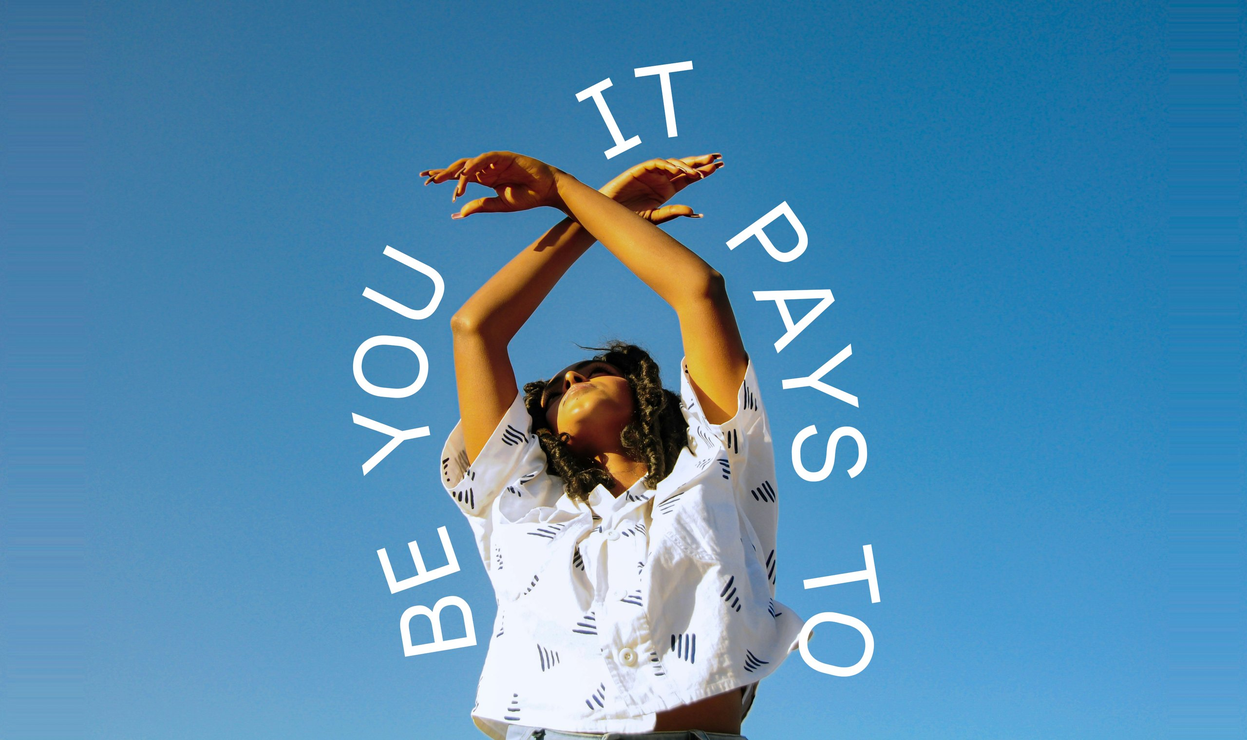
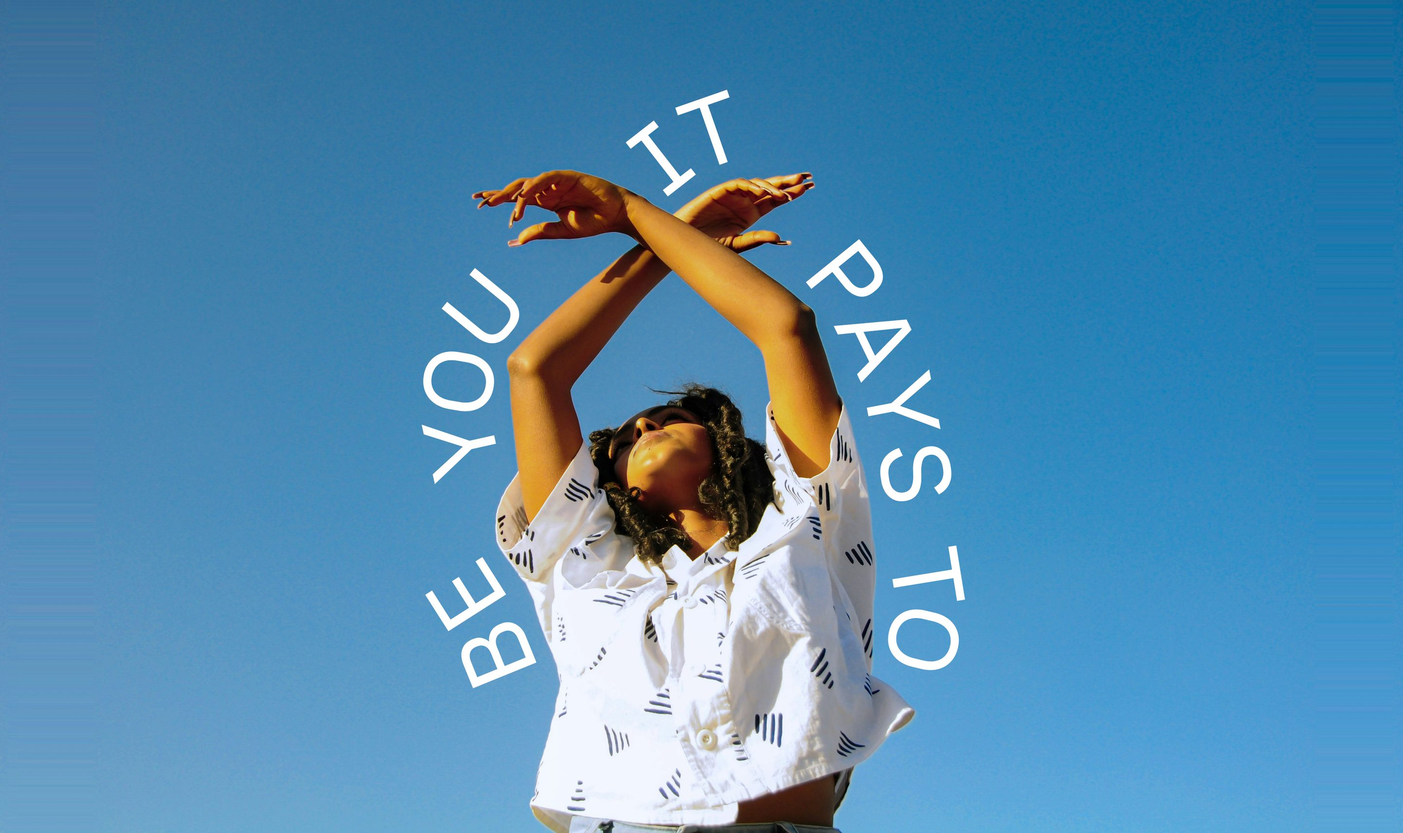
Creator Portfolio: Impact graph, MVP journey, new hero
- Impact: adoption-curve graph (Figma 1830:71821) beside the launch video,
  the curve draws in when the section bottom scrolls into view; video now
  has native controls (muted by default, viewers can unmute).
- Solution -> "MVP experience": end-to-end user journey mapping the eight
  MVP screens across Discover / Create / Share over a timeline; drop the
  old journey placeholder. Screens resized to 520px.
- Update the hero cover to the "It Pays to Be You" shot (compressed JPG).
- Section labels revert to the shared #7c3aed / #a78bfa accent.

diff --git a/case-study-creator-portfolio.html b/case-study-creator-portfolio.html
@@ -24,7 +24,7 @@
 
   <!-- Stylesheet -->
   <link rel="stylesheet" href="css/style.css">
-  <link rel="stylesheet" href="css/case-study.css?v=8">
+  <link rel="stylesheet" href="css/case-study.css?v=28">
 </head>
 <body class="case-study-page cs-page--creator-portfolio">
 
@@ -41,7 +41,7 @@
     <section class="cs-hero cs-hero--full-image">
       <div class="cs-hero-bg"></div>
       <div class="cs-hero-cover">
-        <img src="img/creator-portfolio-hero.jpg" alt="Instagram Creator Portfolio — creators showcase their work and brand partnerships" loading="eager">
+        <img src="img/creator-portfolio-hero.jpg?v=2" alt="Instagram Creator Portfolio — creators showcase their work and brand partnerships" loading="eager">
       </div>
       <div class="container cs-hero-content">
         <div class="cs-hero-meta cs-hero-meta--top">
@@ -324,17 +324,31 @@
     <section class="cs-section cs-section--dark cp-blue-bg">
       <div class="container cs-container">
         <div class="cs-section-header">
-          <span class="cs-section-label">Solution</span>
+          <span class="cs-section-label">MVP experience</span>
           <h2 class="cs-section-title">An on-platform media kit, built into Instagram.</h2>
         </div>
         <div class="cs-body">
           <p>A single, shareable profile where creators curate their best posts, performance insights, and past collaborations &mdash; so their work, not their follower count, makes the pitch.</p>
         </div>
-        <div class="cp-figure">
-          <img src="img/Instagram Creator Portfolio/Creator portfolio-user journey.png" alt="Creator Portfolio user journey — from building to sharing a portfolio" loading="lazy">
+        <div class="cp-journey">
+          <div class="cp-journey-shots">
+            <img src="img/Instagram Creator Portfolio/01_MVP.png" alt="Creator profile with the Professional dashboard entry point" loading="lazy">
+            <img src="img/Instagram Creator Portfolio/02_MVP.png" alt="Professional dashboard prompting to set up a creator portfolio" loading="lazy">
+          </div>
+          <div class="cp-journey-shots cp-journey-shots--spread">
+            <img src="img/Instagram Creator Portfolio/03_MVP.png" alt="Creator-led onboarding video" loading="lazy">
+            <img src="img/Instagram Creator Portfolio/04_MVP.png" alt="Auto-populated content added to the portfolio" loading="lazy">
+            <img src="img/Instagram Creator Portfolio/05_MVP.png" alt="Editing the portfolio sections" loading="lazy">
+            <img src="img/Instagram Creator Portfolio/06_MVP.png" alt="A curated portfolio with selected work" loading="lazy">
+          </div>
+          <div class="cp-journey-shots">
+            <img src="img/Instagram Creator Portfolio/07_MVP.png" alt="Completed portfolio, choosing visibility in Creator Marketplace" loading="lazy">
+            <img src="img/Instagram Creator Portfolio/08_MVP.png" alt="Sharing the portfolio with brands" loading="lazy">
+          </div>
+          <div class="cp-journey-marker"><span class="cp-journey-dot"></span><span class="cp-journey-label">Discover</span></div>
+          <div class="cp-journey-marker"><span class="cp-journey-dot"></span><span class="cp-journey-label">Create</span></div>
+          <div class="cp-journey-marker"><span class="cp-journey-dot"></span><span class="cp-journey-label">Share</span></div>
         </div>
-        <p class="cs-image-caption">Creators curate posts, insights, and collaborations into a shareable, on-platform media kit.</p>
-        <p class="cs-confidential-note">Visuals recreated to respect Meta confidentiality.</p>
       </div>
     </section>
 
@@ -364,11 +378,38 @@
           </div>
         </div>
 
-        <p class="cs-image-caption">Portfolios were shared 22K+ times and drew 53K total views since launch.</p>
-        <div class="cp-phone">
-          <video src="img/Instagram Creator Portfolio/It pays to be you.mp4" autoplay muted loop playsinline aria-label="It Pays to Be You — Creator Portfolio launch campaign"></video>
+        <div class="cp-impact-viz">
+          <div class="cp-impact-graph" aria-hidden="true">
+            <svg class="cp-impact-graph-svg" viewBox="0 0 599 466" preserveAspectRatio="none" fill="none" xmlns="http://www.w3.org/2000/svg">
+              <path d="M40.5 305H591.5" stroke="#000000" stroke-opacity="0.1"/>
+              <path d="M40.5 401H591.5" stroke="#000000" stroke-opacity="0.1"/>
+              <path d="M40.5 449H591.5" stroke="#000000" stroke-opacity="0.1"/>
+              <path d="M40.5 257H591.5" stroke="#000000" stroke-opacity="0.1"/>
+              <path d="M40.5 209H591.5" stroke="#000000" stroke-opacity="0.1"/>
+              <path d="M40.5 161H591.5" stroke="#000000" stroke-opacity="0.1"/>
+              <path d="M40.5 113H591.5" stroke="#000000" stroke-opacity="0.1"/>
+              <path d="M40.5 65H591.5" stroke="#000000" stroke-opacity="0.1"/>
+              <path d="M40.5 17H591.5" stroke="#000000" stroke-opacity="0.1"/>
+              <path d="M40.5 353H591.5" stroke="#ff5858" stroke-linecap="round" stroke-linejoin="round" stroke-dasharray="4 6"/>
+              <g transform="translate(38.5 20.5)">
+                <path class="cp-impact-curve" pathLength="1" d="M2.50034 419.501L28.7259 244.791L54.9515 208.247L80.3575 201.74L106.583 187.222L131.989 177.21L159.854 170.702L184.44 168.199L210.666 164.195L236.891 156.185L262.297 151.68L290.162 149.677L366.38 140.166L391.786 138.664L418.831 105.624L454.072 102.12L495.049 100.618L522.094 75.0877L547.5 2.50068" stroke="url(#cpImpactGrad)" stroke-width="5" stroke-linecap="round" stroke-linejoin="round"/>
+              </g>
+              <text class="cp-graph-label" x="16" y="357" font-size="14">5K</text>
+              <text class="cp-graph-label" x="8" y="21" font-size="14">60K</text>
+              <defs>
+                <linearGradient id="cpImpactGrad" x1="185.26" y1="2.5" x2="185.26" y2="426" gradientUnits="userSpaceOnUse">
+                  <stop stop-color="#ff7a00"/>
+                  <stop offset="0.5" stop-color="#ff0d6d"/>
+                  <stop offset="1" stop-color="#b026ff"/>
+                </linearGradient>
+              </defs>
+            </svg>
+          </div>
+          <div class="cp-impact-video">
+            <video src="img/Instagram Creator Portfolio/It pays to be you.mp4" autoplay muted loop playsinline controls controlslist="nodownload" aria-label="It Pays to Be You — Creator Portfolio launch campaign"></video>
+          </div>
         </div>
-        <p class="cs-image-caption">The launch campaign &mdash; &ldquo;It Pays to Be You.&rdquo;</p>
+        <div class="cp-impact-end" aria-hidden="true"></div>
       </div>
     </section>
 
@@ -537,6 +578,21 @@
           }
         });
       }, { threshold: 0.25 }).observe(flywheel);
+    }
+
+    // Impact adoption graph — draw the curve once the scroll reaches the
+    // bottom of the section (sentinel at the section's end enters the viewport)
+    var impactGraph = document.querySelector('.cp-impact-graph');
+    var impactEnd = document.querySelector('.cp-impact-end');
+    if (impactGraph && impactEnd) {
+      new IntersectionObserver(function(entries, observer) {
+        entries.forEach(function(entry) {
+          if (entry.isIntersecting) {
+            impactGraph.classList.add('is-visible');
+            observer.unobserve(entry.target);
+          }
+        });
+      }, { threshold: 0 }).observe(impactEnd);
     }
 
     // Back to top button

diff --git a/css/case-study.css b/css/case-study.css
@@ -716,15 +716,8 @@
   background: #141414;
 }
 
-/* Blue-themed section labels — deep blue on light sections, light sky-blue on
-   the dark/gradient sections, so they stay legible on both. */
-.cs-page--creator-portfolio .cs-section-label {
-  color: #0c5c8e;
-}
-
-.cs-page--creator-portfolio .cs-section--dark .cs-section-label {
-  color: #8ecae6;
-}
+/* Section labels use the shared accent (#7c3aed on light, #a78bfa on dark) so
+   they stay consistent with the other case studies. */
 
 /* Sticky stack — the Challenge section pins to the top of the viewport while
    the Hypothesis section scrolls up and layers over it like a covering panel. */
@@ -1993,6 +1986,165 @@
   width: 100%;
   display: block;
   border-radius: 24px;
+}
+
+/* MVP experience — end-to-end user journey: overlapping screens grouped into
+   Discover / Create / Share phases over a pink timeline. */
+.cp-journey {
+  --phone-w: clamp(78px, 9vw, 124px);
+  position: relative;
+  display: grid;
+  grid-template-columns: repeat(3, auto);
+  justify-content: center;
+  align-items: end;
+  column-gap: clamp(1.5rem, 4vw, 3.5rem);
+  margin: var(--space-2xl) auto 0;
+}
+
+/* the journey timeline, aligned to the phase dots */
+.cp-journey::before {
+  content: "";
+  position: absolute;
+  left: 5%;
+  right: 5%;
+  top: calc(var(--phone-w) * 2.165 + var(--space-lg) + 5px);
+  height: 2px;
+  background: linear-gradient(90deg, rgba(255, 13, 109, 0.12), rgba(255, 13, 109, 0.6) 50%, rgba(255, 13, 109, 0.12));
+}
+
+.cp-journey-shots {
+  grid-row: 1;
+  display: flex;
+  align-items: flex-end;
+  justify-content: center;
+}
+
+.cp-journey-shots img {
+  width: var(--phone-w);
+  border-radius: 11px;
+  box-shadow: 0 16px 34px rgba(0, 0, 0, 0.55);
+  display: block;
+}
+
+.cp-journey-shots img + img {
+  margin-left: -13%;
+}
+
+/* Create phase has 4 screens — overlap them less so each stays readable */
+.cp-journey-shots--spread img + img {
+  margin-left: -5%;
+}
+
+.cp-journey-marker {
+  grid-row: 2;
+  position: relative;
+  z-index: 1;
+  display: flex;
+  flex-direction: column;
+  align-items: center;
+  padding-top: var(--space-lg);
+}
+
+.cp-journey-dot {
+  width: 11px;
+  height: 11px;
+  border-radius: 50%;
+  background: #ff0d6d;
+  box-shadow: 0 0 0 4px rgba(255, 13, 109, 0.16);
+}
+
+.cp-journey-label {
+  margin-top: var(--space-md);
+  font-family: var(--font-body);
+  font-weight: 700;
+  font-size: var(--text-base);
+  color: #ffffff;
+}
+
+@media (max-width: 700px) {
+  .cp-journey {
+    justify-content: start;
+    overflow-x: auto;
+    padding-bottom: var(--space-sm);
+  }
+}
+
+/* Impact — adoption curve behind the launch-campaign video, overlapping
+   (graph from Figma 1830:71821). */
+.cp-impact-viz {
+  display: flex;
+  align-items: center;
+  justify-content: center;
+  gap: 3%;
+  max-width: 940px;
+  margin: var(--space-3xl) auto 0;
+}
+
+.cp-impact-graph {
+  flex: 0 0 50%;
+  /* matches the updated Figma graph (599 x 466) */
+  aspect-ratio: 599 / 466;
+}
+
+.cp-impact-graph-svg {
+  width: 100%;
+  height: 100%;
+  display: block;
+}
+
+/* The adoption curve draws itself when the section scrolls into view */
+.cp-impact-curve {
+  stroke-dasharray: 1;
+  stroke-dashoffset: 1;
+}
+
+.cp-impact-graph.is-visible .cp-impact-curve {
+  animation: cpDrawCurve 1.7s cubic-bezier(0.4, 0, 0.2, 1) forwards;
+}
+
+@keyframes cpDrawCurve {
+  to {
+    stroke-dashoffset: 0;
+  }
+}
+
+@media (prefers-reduced-motion: reduce) {
+  .cp-impact-curve {
+    stroke-dashoffset: 0;
+  }
+}
+
+.cp-impact-graph-svg .cp-graph-label {
+  font-family: var(--font-body);
+  font-weight: 500;
+  fill: #8a8a8a;
+}
+
+.cp-impact-video {
+  flex: 0 0 34%;
+  border-radius: 22px;
+  overflow: hidden;
+  box-shadow: 0 22px 55px rgba(0, 0, 0, 0.18);
+}
+
+.cp-impact-video video {
+  display: block;
+  width: 100%;
+}
+
+@media (max-width: 620px) {
+  .cp-impact-viz {
+    flex-direction: column;
+    gap: var(--space-xl);
+  }
+  .cp-impact-graph {
+    flex-basis: auto;
+    width: 90%;
+  }
+  .cp-impact-video {
+    flex-basis: auto;
+    width: 56%;
+  }
 }
 
 /* Creator Portfolio — paired media (auto-populate video + visibility banner) */
